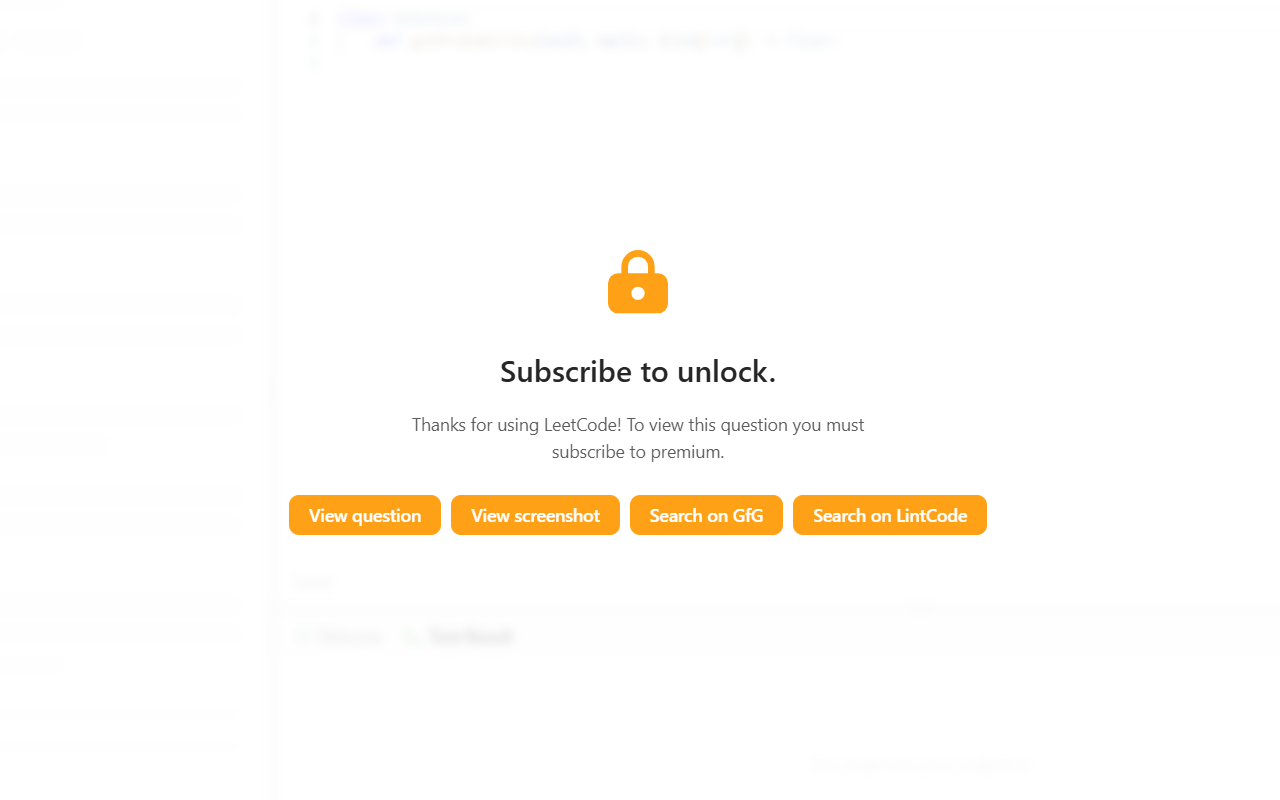
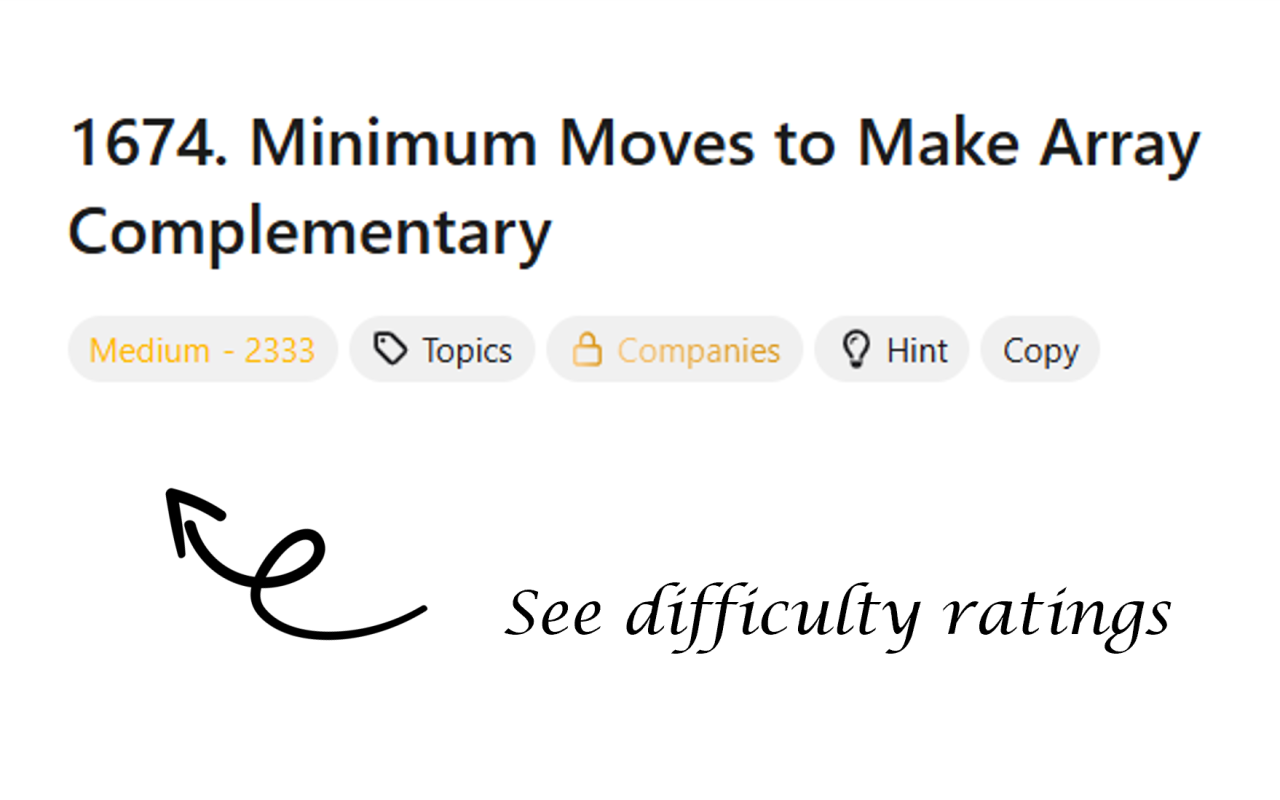
docs: update README

diff --git a/src/myext/hooks/useEditorial.ts b/src/myext/hooks/useEditorial.ts
@@ -17,7 +17,7 @@ export default function useEditorial(question: Question | null, url: string) {
 			// console.log('editorial', question.id)
 
 			subBtn.href = getEditorialLink(question.id, question.title)
-			subBtn.innerText = 'Go to editorial'
+			subBtn.innerText = 'View screenshot'
 			return true
 		}
 

diff --git a/README.md b/README.md
@@ -1,25 +1,45 @@
 ## LeetCode Enhancer
 
-A browser extension to improve the LeetCode experience.
+> A browser extension to improve the LeetCode experience.
+
+<!-- <div align="center">
+    <a href="https://chromewebstore.google.com/detail/leetcode-enhancer/cpoclfijojgjiafnlgnhjalkaiabcjch">
+        <img src="https://img.shields.io/chrome-web-store/users/dlaogejjiafeobgofajdlkkhjlignalk?logo=googlechrome&logoColor=ffffff&color=0779ba"></a>
+    <a href="https://addons.mozilla.org/en-US/firefox/addon/leetcodeenhancer/">
+        <img src="https://img.shields.io/amo/users/tablissng?logo=firefoxbrowser&logoColor=ffffff"></a>
+    <a href="https://www.star-history.com/?repos=Sbrjt%2Fleetcode-enhancer">
+        <img src="https://img.shields.io/github/stars/Sbrjt/leetcode-enhancer?style=flat"></a>
+    <a href="https://github.com/Sbrjt/leetcode-enhancer/commits/main/">
+        <img src="https://img.shields.io/github/last-commit/Sbrjt/leetcode-enhancer?color=0779ba"></a>
+    <a href="https://github.com/Sbrjt/leetcode-enhancer/releases/latest">
+        <img src="https://img.shields.io/github/v/release/Sbrjt/leetcode-enhancer.svg?logo=github"></a>
+</div> -->
 
 ### ✨ Features
 
-- Shows problem difficulty rating
+- Problem difficulty rating
+- Format on run
+- Enable autocomplete (partial)
+- Copy code button
+- Return dislike button
 - Links to similar problems on other platforms for premium problems
-
-### ⏳Todos
-
-- Contest notification
-- Code formatter
-- Autocomplete
-- Code snippets
 - Screenshots of premium editorials
 
-### 🤗 Credits
+### ⏳ Todos
 
-- [leetcode_problem_rating](https://github.com/zerotrac/leetcode_problem_rating)
-- [leetcode-screenshotter](https://github.com/akhilkammila/leetcode-screenshotter)
-- [wxt](https://github.com/wxt-dev/wxt)
+- Contest notification
+- Code snippets
+
+### 📥 Download
+
+<a href="https://chromewebstore.google.com/detail/leetcode-enhancer/cpoclfijojgjiafnlgnhjalkaiabcjch"><img src="https://developer.chrome.com/static/docs/webstore/branding/image/HRs9MPufa1J1h5glNhut.png" alt="Get the Extension on Chrome" height="70" style="border: 1px solid transparent; border-radius:6px;"></a>
+<a href="https://addons.mozilla.org/en-US/firefox/addon/leetcodeenhancer/"><img src="https://blog.mozilla.org/addons/files/2020/04/get-the-addon-fx-apr-2020.svg" height="70"></a>
+
+You can also:
+
+- Download it manually from the [latest release](https://github.com/Sbrjt/leetcode-enhancer/releases/latest)
+- Try the latest GitHub Actions [artifact build](https://github.com/Sbrjt/leetcode-enhancer/actions/workflows/ci.yml)
+- Build it yourself from source (see below)
 
 <details>
   <summary>Build Instructions</summary>
@@ -36,7 +56,7 @@ Install:
 npm i
 ```
 
-Development:
+Development server (hot reload):
 
 ```bash
 npm run dev
@@ -60,4 +80,18 @@ To Load:
 
 - Find outputs in `.output/` folder.
 
+Note: If you need extra help, just create an issue and I will help.
+
 </details>
+
+### 🤗 Credits
+
+- [leetcode_problem_rating](https://github.com/zerotrac/leetcode_problem_rating)
+- [leetcode-screenshotter](https://github.com/akhilkammila/leetcode-screenshotter)
+- [wxt](https://github.com/wxt-dev/wxt)
+
+<!-- If you like my project, please gimme a star! ⭐💫
+
+<picture><img src="https://img.shields.io/badge/PRs-welcome-green.svg"></picture> -->
+
+© Shubhrajit Sadhukhan :octocat:
